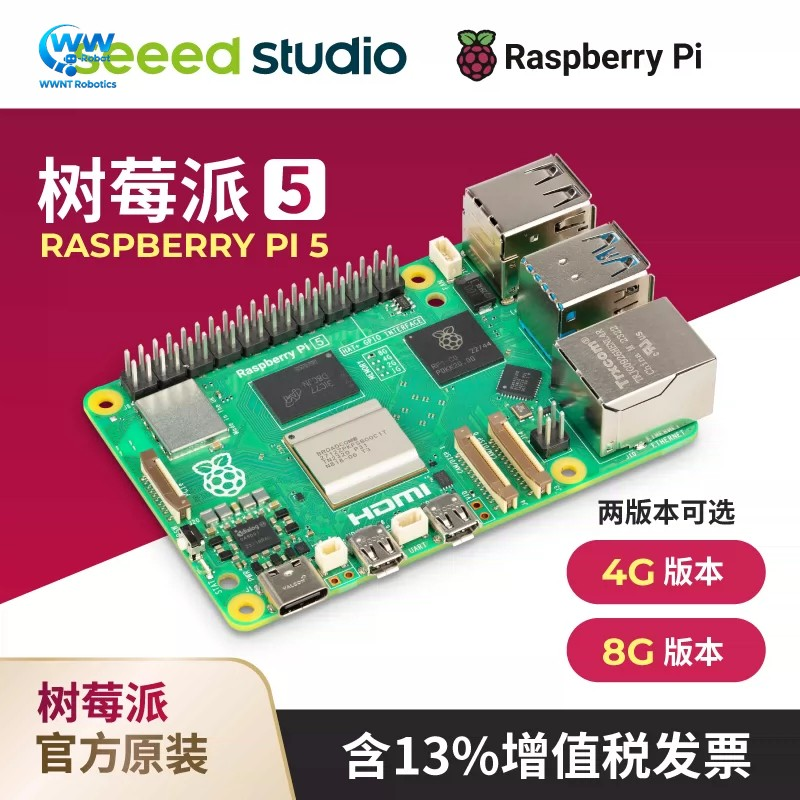
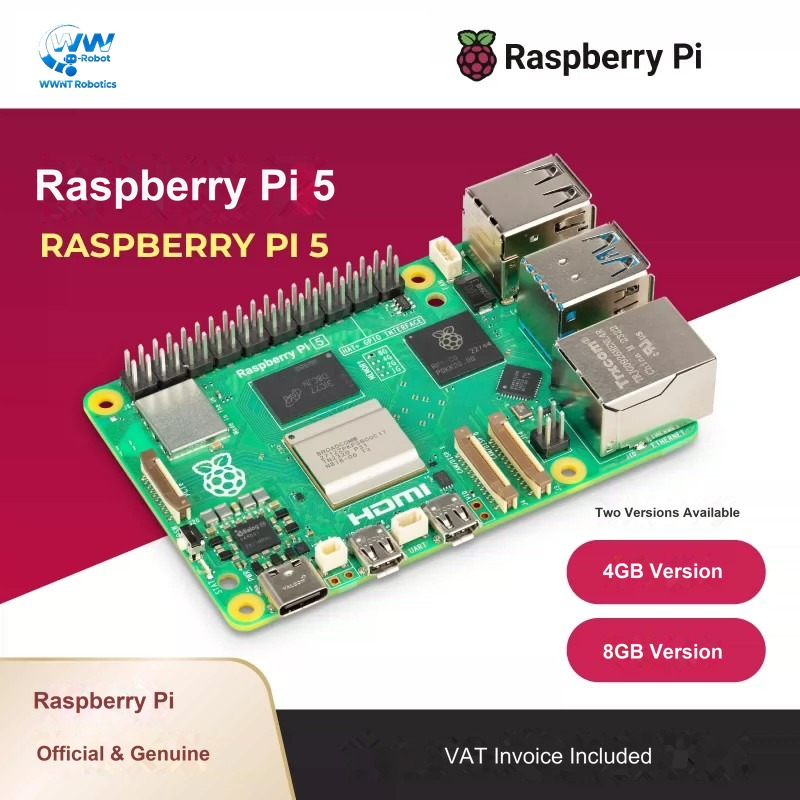
rpi5: remove Seeed branding and translate all CJK text to English; set rpi5-6 as hero image

diff --git a/js/data.js b/js/data.js
@@ -258,12 +258,12 @@ const PRODUCTS = [
     tagline: "2.4GHz Quad-Core Arm Cortex-A76 | VideoCore VII GPU | Dual 4Kp60 HDMI | PCIe 2.0",
     description: "Raspberry Pi 5 is the flagship single-board computer powered by the Broadcom BCM2712 2.4GHz quad-core 64-bit Arm Cortex-A76 processor, delivering 2–3× the performance of the previous generation. It features the VideoCore VII GPU with OpenGL ES 3.1 and Vulkan 1.2 support, dual 4Kp60 HDMI outputs with HDR, and a 4Kp60 HEVC decoder. Available in 4GB, 8GB and 16GB LPDDR4X-4267 memory configurations. Connectivity includes dual-band 802.11ac Wi-Fi, Bluetooth 5.0/BLE, Gigabit Ethernet with PoE+ support, two USB 3.0 ports (5Gbps), two USB 2.0 ports, dual 4-lane MIPI camera/display interfaces, and a PCIe 2.0 x1 interface for fast peripherals. Powered via 5V/5A USB-C with Power Delivery, with a 40-pin GPIO header, real-time clock and power button. Ideal for AI, robotics, embedded systems and IoT applications.",
     images: [
+      "image/rpi5-6.jpg",
       "image/rpi5-1.jpg",
       "image/rpi5-2.jpg",
       "image/rpi5-3.jpg",
       "image/rpi5-4.png",
       "image/rpi5-5.jpg",
-      "image/rpi5-6.jpg",
     ],
     variants: [
       { label: "4GB RAM", price: 399 },

diff --git a/index.html b/index.html
@@ -536,7 +536,7 @@
 
     <script src="js/include.js?v=20260913b"></script>
     <script src="js/mobile.js?v=20260922"></script>
-    <script src="js/data.js?v=20260913h"></script>
+    <script src="js/data.js?v=20260913i"></script>
 
     <!-- ============ Carousel JS ============ -->
     <script src="js/hero-carousel.js?v=20260922"></script>

diff --git a/product.html b/product.html
@@ -136,7 +136,7 @@
 
     <script src="js/include.js?v=20260913b"></script>
     <script src="js/mobile.js?v=20260922"></script>
-    <script src="js/data.js?v=20260913h"></script>
+    <script src="js/data.js?v=20260913i"></script>
     <script src="js/product.js?v=20260913h"></script>
   </body>
 </html>

diff --git a/store.html b/store.html
@@ -115,7 +115,7 @@
 
     <script src="js/include.js?v=20260913b"></script>
     <script src="js/mobile.js?v=20260922"></script>
-    <script src="js/data.js?v=20260913h"></script>
+    <script src="js/data.js?v=20260913i"></script>
     <script src="js/store.js?v=20260913"></script>
   </body>
 </html>
